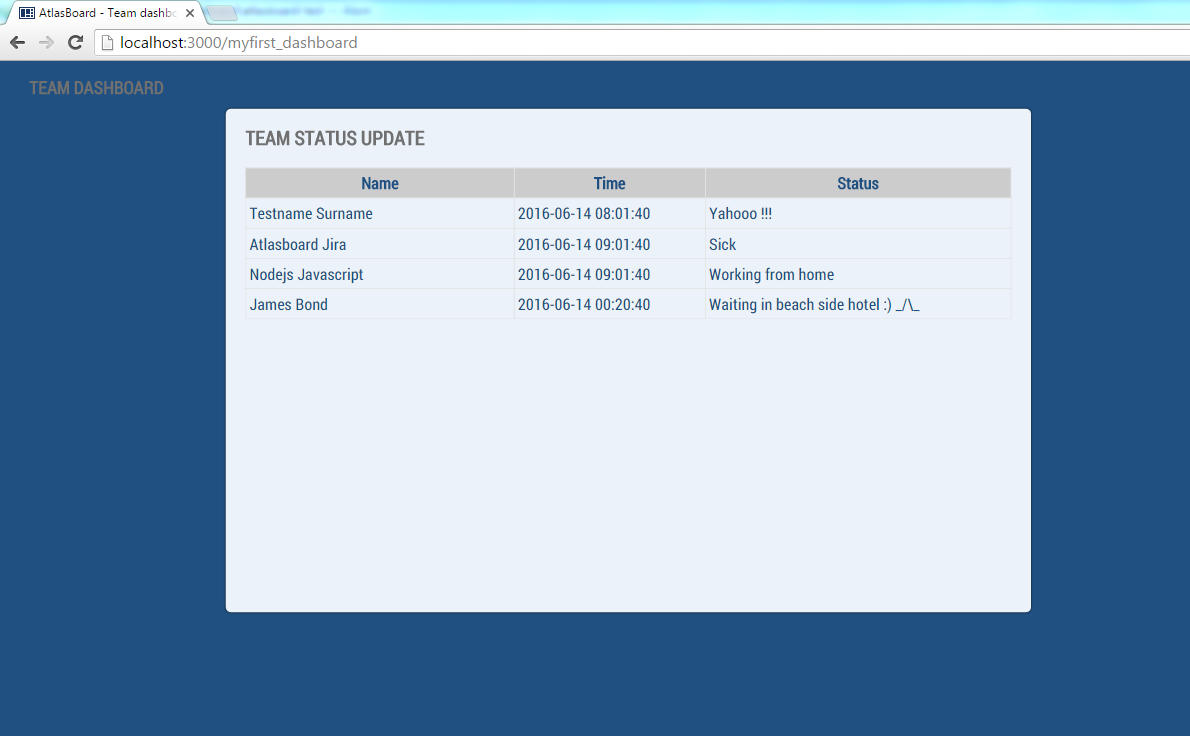
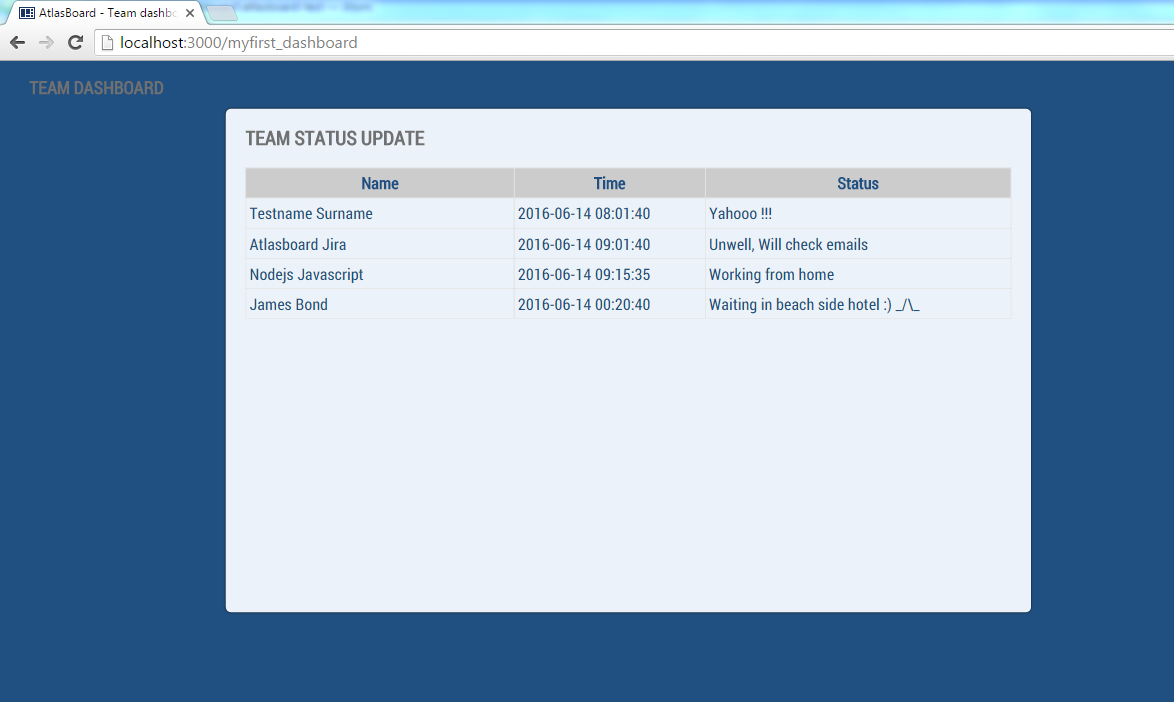
Update config

Changed region(s): [[0.184, 0.1496, 0.8893, 0.8974], [0.0, 0.0, 1.0, 0.1496]]

diff --git a/packages/demo/jobs/issue-types/issue-types.js b/packages/demo/jobs/issue-types/issue-types.js
@@ -11,12 +11,12 @@ module.exports = {
                 "time": "2016-06-14 08:01:40"
             }, {
                 "email": "Atlasboard Jira",
-                "message": " Sick",
+                "message": "Unwell, Will check emails",
                 "time": "2016-06-14 09:01:40"
             }, {
                 "email": "Nodejs Javascript",
                 "message": " Working from home",
-                "time": "2016-06-14 09:01:40"
+                "time": "2016-06-14 09:15:35"
             }, {
                 "email": "James Bond",
                 "message": "Waiting in beach side hotel :) _/\\_",

diff --git a/packages/demo/widgets/keyvaluelist/keyvaluelist.js b/packages/demo/widgets/keyvaluelist/keyvaluelist.js
@@ -30,8 +30,7 @@ widget = {
         } else {
             console.log("<div> json.Team is " + json.Team);
         }
-        var table = '<table width="100%">';
-        //table += "<table class='item-container'>";
+        var table = '<table width="100%">';        
         table += "<tr> <th width=\"35%\"> Name </th><th width=\"25%\">  Time </th> <th width=\"40%\"> Status </th></tr>";
         if (json.Team.length) {
             json.Team.forEach(function(team) {

diff --git a/packages/demo/widgets/keyvaluelist/keyvaluelist.html b/packages/demo/widgets/keyvaluelist/keyvaluelist.html
@@ -1,6 +1,2 @@
 <h2></h2>
 <div class="content"></div>
-<script type="text/html" class="template">
-    <div class="clock-time"><%= time %></div>
-    <div class="clock-date"><%= date %></div>
-</script>

diff --git a/README.md b/README.md
@@ -1,3 +1,3 @@
-#Atlasboard-Test
-Just exploring atlasboard features.
-This is the README for my dashboard. Any info I need to pass on to other users will go here.
+# Atlasboard-Test
+
+Just exploring atlasboard features. This is the README for my dashboard. Any info I need to pass on to other users will go here.
